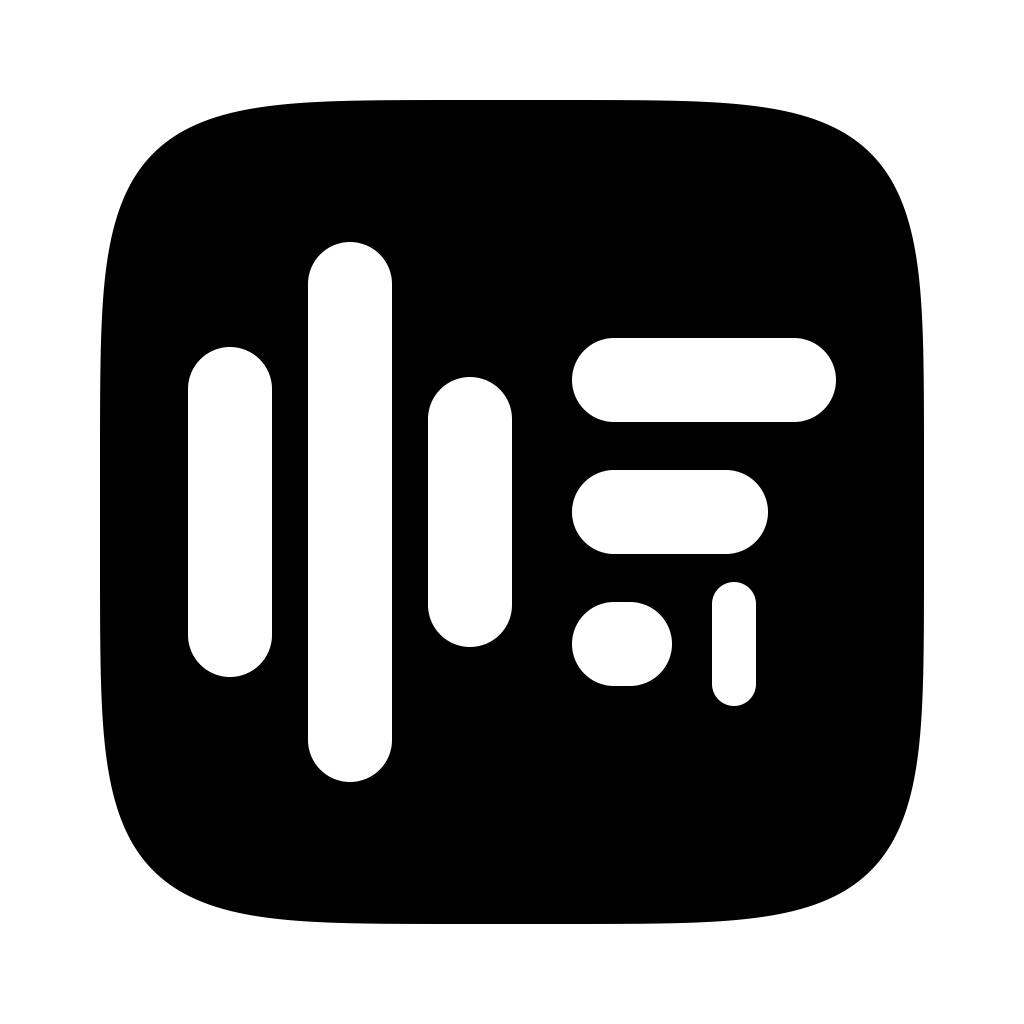
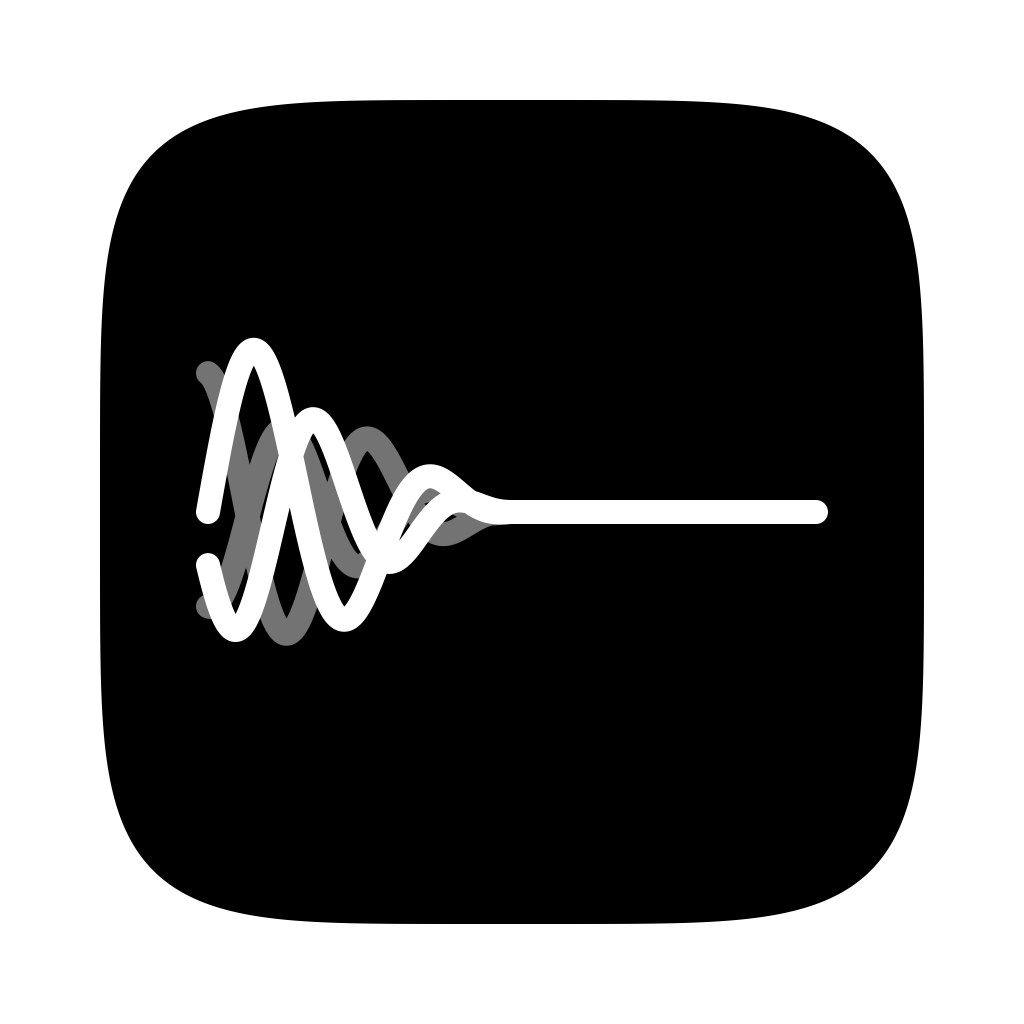
Slovo 1.2.1: иконка — звуковые волны сходятся в линию
В левой половине иконки тонкие звуковые волны переплетаются и к середине
сходятся в одну точку, дальше идёт ровная линия: звук становится словом.
Значок в строке меню во время расшифровки повторяет этот рисунок: волны
бегут к линии, а линия дорастает по прогрессу.

Changed region(s): [[0.1562, 0.2188, 0.8125, 0.7812]]

diff --git a/Sources/Slovo/MenuBarIcon.swift b/Sources/Slovo/MenuBarIcon.swift
@@ -3,24 +3,26 @@ import Combine
 import TransCore
 
 /// The icon in the menu bar while a transcription runs: the app icon in lines (style A: its squircle with the mark
-/// inside; B: the mark alone), a wave of upright strokes that moves gently and lines of text that get written as
-/// recognition goes on. At the end it shows the lines whole (or a cross) for a moment and goes away; a click brings
-/// the window forward. The animation is light (4 frames a second) and stops while the displays sleep or Reduce Motion
-/// is on: then only the progress changes the icon. Drawn in code as a template image like the menu bar icons of the
-/// author's other apps: 16 × 16 pt, the glyph in the middle 14 × 14 pt, 1.5 pt lines with round ends.
+/// inside; B: the mark alone), sound waves on the left that run into the middle and calm down there, and the word's
+/// line on the right that grows as recognition goes on. At the end it shows the line whole (or a cross) for a moment
+/// and goes away; a click brings the window forward. The animation is light (4 frames a second) and stops while the
+/// displays sleep or Reduce Motion is on: then only the progress changes the icon. Drawn in code as a template image
+/// like the menu bar icons of the author's other apps: 16 × 16 pt, the glyph in the middle 14 × 14 pt, 1.5 pt lines
+/// with round ends.
 @MainActor
 final class MenuBarIcon: NSObject {
-    /// What the icon shows: the heights of the wave's strokes and the text, being written or finished.
+    /// What the icon shows: where the waves are in their run and the word's line, being written or finished.
     struct Glyph: Equatable {
-        enum Text: Equatable {
+        enum Line: Equatable {
             /// Written so far, 0...1.
             case progress(Double)
             case done
             case failed
         }
 
-        var wave: [CGFloat]
-        var text: Text
+        /// The phase of the waves, in radians.
+        var phase: CGFloat
+        var line: Line
     }
 
     static let defaultsKey = "menuBarIcon"
@@ -83,12 +85,12 @@ final class MenuBarIcon: NSObject {
         refresh()
     }
 
-    /// The finished lines or the cross for 1.5 s, then away.
-    private func finish(_ text: Glyph.Text) {
+    /// The whole line or the cross for 1.5 s, then away.
+    private func finish(_ line: Glyph.Line) {
         timer?.invalidate()
         timer = nil
-        draw(Glyph(wave: Self.restingWave, text: text))
-        item?.button?.toolTip = text == .done ? L("Расшифровка готова") : L("Не получилось")
+        draw(Glyph(phase: Self.restingPhase, line: line))
+        item?.button?.toolTip = line == .done ? L("Расшифровка готова") : L("Не получилось")
         let work = DispatchWorkItem { [weak self] in MainActor.assumeIsolated { self?.hide() } }
         ending = work
         DispatchQueue.main.asyncAfter(deadline: .now() + 1.5, execute: work)
@@ -143,9 +145,10 @@ final class MenuBarIcon: NSObject {
     /// The current frame and the tooltip.
     private func refresh() {
         guard let item, ending == nil, transcriber.phase == .working else { return }
-        let written = transcriber.step == .recognizing ? transcriber.stepProgress ?? 0 : 0
-        let wave = moves ? Self.wave(at: Date().timeIntervalSince(clock)) : Self.restingWave
-        draw(Glyph(wave: wave, text: .progress(written)))
+        // Rounded to the 64th, a fraction of a pixel of the line: finer steps would only cost redraws.
+        let written = transcriber.step == .recognizing ? ((transcriber.stepProgress ?? 0) * 64).rounded() / 64 : 0
+        let phase = moves ? Self.phase(at: Date().timeIntervalSince(clock)) : Self.restingPhase
+        draw(Glyph(phase: phase, line: .progress(written)))
         let tooltip = tooltipText()
         if item.button?.toolTip != tooltip {
             item.button?.toolTip = tooltip
@@ -188,42 +191,42 @@ final class MenuBarIcon: NSObject {
 
     nonisolated static let style = Style.wholeIcon
 
-    /// Where the strokes go, in points of the 16 pt canvas (y down). Centres sit on quarter points, so that 1.5 pt
-    /// lines cover whole pixels at 2x.
+    /// Where the mark goes, in points of the 16 pt canvas (y down): the waves from `waveLeft` to `middle`, the line on
+    /// to `lineEnd`, both along `axis`. The axis sits on a quarter point, so that the 1.5 pt line covers whole pixels
+    /// at 2x.
     private struct Layout {
         var outline: Bool
-        var waveX: [CGFloat]
-        /// The height of a stroke at rest of 14 in the mark alone.
-        var waveScale: CGFloat
-        var waveMiddle: CGFloat
-        var lineX: CGFloat
-        var lineY: [CGFloat]
-        var lineLength: [CGFloat]
-        var caret: Bool
+        var waveLeft: CGFloat
+        var middle: CGFloat
+        var lineEnd: CGFloat
+        var axis: CGFloat
+        /// How far the solid wave swings at the left edge; the faint one swings `faint` times as far.
+        var amplitude: CGFloat
+        var faint: CGFloat
+        /// How many waves fit between the left edge and the middle.
+        var cycles: CGFloat
+        /// The side of the cross that takes the line's place when the transcription fails.
+        var cross: CGFloat
 
-        /// Inside the 1.5 pt squircle only two strokes and three short lines fit with room between them.
-        static let wholeIcon = Layout(outline: true, waveX: [4.75, 7.25], waveScale: 9 / 14, waveMiddle: 8.25, lineX: 9.25,
-                                      lineY: [5.25, 8.25, 11.25], lineLength: [3.25, 2.5, 1.75], caret: false)
-        /// The app icon's mark on the whole 14 pt square: three strokes, three lines and the caret.
-        static let markOnly = Layout(outline: false, waveX: [1.75, 4.25, 6.75], waveScale: 1, waveMiddle: 8, lineX: 9,
-                                     lineY: [4.25, 7.75, 11.25], lineLength: [6, 4.5, 2], caret: true)
+        /// Inside the 1.5 pt squircle a single wave fits with room between its strokes, and a faint one behind it.
+        static let wholeIcon = Layout(outline: true, waveLeft: 3.75, middle: 8.25, lineEnd: 12.25, axis: 8.25,
+                                      amplitude: 3.25, faint: 0.8, cycles: 1, cross: 2.75)
+        /// The app icon's mark on the whole 14 pt square: the waves on its left half, the line on the right one.
+        static let markOnly = Layout(outline: false, waveLeft: 1.75, middle: 8, lineEnd: 14.25, axis: 8.25,
+                                     amplitude: 5.25, faint: 0.75, cycles: 1.6, cross: 4)
     }
 
-    nonisolated static let restingWave: [CGFloat] = [8.5, 14, 7]
+    /// At rest the waves lie as the app icon's do: the solid one leaves the axis upwards.
+    nonisolated static let restingPhase = CGFloat.pi
 
-    /// The strokes rise and fall out of step, around their resting heights, once in 2.4 s.
-    nonisolated static func wave(at time: TimeInterval) -> [CGFloat] {
-        let phase = time / 2.4 * 2 * .pi
-        return restingWave.enumerated().map { index, height in
-            let swing: CGFloat = index == 1 ? 2.5 : 2
-            // Quantized to a quarter point, so frames that look the same are not drawn again.
-            return ((height - swing + swing * CGFloat(sin(phase + Double(index) * 2.1))) * 4).rounded() / 4
-        }
+    /// The waves run to the right, into the line, a wavelength in 2.4 s.
+    nonisolated static func phase(at time: TimeInterval) -> CGFloat {
+        restingPhase - CGFloat((time / 2.4).truncatingRemainder(dividingBy: 1)) * 2 * .pi
     }
 
     /// The image on the button: drawn anew whenever the button draws, from `glyph`.
     private final class LiveImage {
-        var glyph = Glyph(wave: MenuBarIcon.restingWave, text: .progress(0))
+        var glyph = Glyph(phase: MenuBarIcon.restingPhase, line: .progress(0))
         lazy var image: NSImage = {
             let image = NSImage(size: NSSize(width: 16, height: 16), flipped: true) { [unowned self] _ in
                 guard let ctx = NSGraphicsContext.current?.cgContext else { return false }
@@ -250,17 +253,15 @@ final class MenuBarIcon: NSObject {
     }
 
     /// Draws a frame on the 16 × 16 pt canvas (y down), the glyph in the middle 14 × 14 pt: 1.5 pt lines with round
-    /// ends, what is not written yet as a faint track.
+    /// ends, the far wave and what is not written yet faint.
     nonisolated static func draw(_ glyph: Glyph, style: Style, in ctx: CGContext) {
         let layout = style == .wholeIcon ? Layout.wholeIcon : Layout.markOnly
-        let width: CGFloat = 1.5
-        ctx.setLineWidth(width)
+        ctx.setLineWidth(1.5)
         ctx.setLineCap(.round)
         ctx.setLineJoin(.round)
-        func stroke(_ from: CGPoint, _ to: CGPoint, alpha: CGFloat = 1) {
+        func stroke(_ points: [CGPoint], alpha: CGFloat = 1) {
             ctx.setStrokeColor(NSColor.black.withAlphaComponent(alpha).cgColor)
-            ctx.move(to: from)
-            ctx.addLine(to: to)
+            ctx.addLines(between: points)
             ctx.strokePath()
         }
         if layout.outline {
@@ -269,40 +270,35 @@ final class MenuBarIcon: NSObject {
             ctx.addPath(squircle(CGRect(x: 1.75, y: 1.75, width: 12.5, height: 12.5)))
             ctx.strokePath()
         }
-        for (index, x) in layout.waveX.enumerated() {
-            let height = min(14, glyph.wave[index]) * layout.waveScale
-            let half = max(0, height - width) / 2
-            stroke(CGPoint(x: x, y: layout.waveMiddle - half), CGPoint(x: x, y: layout.waveMiddle + half))
-        }
-        let x = layout.lineX, lines = zip(layout.lineY, layout.lineLength).map { (y: $0, length: $1) }
-        if glyph.text == .failed {
-            // A cross in the place of the text.
-            let left = x + 0.5, right = x + layout.lineLength[0] - 0.5, top = lines[0].y, bottom = lines[2].y
-            stroke(CGPoint(x: left, y: top), CGPoint(x: right, y: bottom))
-            stroke(CGPoint(x: right, y: top), CGPoint(x: left, y: bottom))
+        // The waves: the far one behind, swinging less and out of step like the second wave of the app icon.
+        stroke(wave(layout, amplitude: layout.amplitude * layout.faint, phase: glyph.phase + 3.6), alpha: 0.45)
+        stroke(wave(layout, amplitude: layout.amplitude, phase: glyph.phase))
+        let y = layout.axis
+        if glyph.line == .failed {
+            // A cross in the place of the line, at its far end, clear of the waves.
+            let right = layout.lineEnd, left = right - layout.cross, top = y - layout.cross / 2, bottom = y + layout.cross / 2
+            stroke([CGPoint(x: left, y: top), CGPoint(x: right, y: bottom)])
+            stroke([CGPoint(x: right, y: top), CGPoint(x: left, y: bottom)])
             return
         }
-        var written: CGFloat
-        switch glyph.text {
+        let written: CGFloat
+        switch glyph.line {
         case .progress(let value): written = CGFloat(min(1, max(0, value)))
         default: written = 1
         }
-        var left = written * layout.lineLength.reduce(0, +)
-        var caret: CGPoint?
-        for (index, line) in lines.enumerated() {
-            stroke(CGPoint(x: x + width / 2, y: line.y), CGPoint(x: x + line.length - width / 2, y: line.y), alpha: 0.3)
-            let part = min(left, line.length)
-            left -= part
-            if part > 0 {
-                stroke(CGPoint(x: x + width / 2, y: line.y), CGPoint(x: x + max(width, part) - width / 2, y: line.y))
-            }
-            // The caret stands where the writing is, after the last line at the end.
-            if caret == nil, part < line.length || index == lines.count - 1 {
-                caret = CGPoint(x: x + part + 1 + width / 2, y: line.y)
-            }
+        stroke([CGPoint(x: layout.middle, y: y), CGPoint(x: layout.lineEnd, y: y)], alpha: 0.3)
+        if written > 0 {
+            stroke([CGPoint(x: layout.middle, y: y), CGPoint(x: layout.middle + (layout.lineEnd - layout.middle) * written, y: y)])
         }
-        if layout.caret, let caret {
-            stroke(CGPoint(x: caret.x, y: caret.y - 1), CGPoint(x: caret.x, y: caret.y + 1))
+    }
+
+    /// A wave like those of the app icon: its swing holds on the left and fades out towards the middle, where the wave
+    /// lies down on the axis and goes on as the line.
+    private nonisolated static func wave(_ layout: Layout, amplitude: CGFloat, phase: CGFloat) -> [CGPoint] {
+        (0...40).map { i in
+            let t = CGFloat(i) / 40
+            return CGPoint(x: layout.waveLeft + (layout.middle - layout.waveLeft) * t,
+                           y: layout.axis + amplitude * pow(cos(.pi / 2 * t), 1.6) * sin(2 * .pi * layout.cycles * t + phase))
         }
     }
 
@@ -327,18 +323,18 @@ final class MenuBarIcon: NSObject {
     var screenFrame: NSRect? { item?.button?.window?.frame }
     var tooltip: String? { item?.button?.toolTip }
 
-    /// The frames as PNG, black on clear, for both styles: a second of the wave at 10 frames a second with the text half
-    /// written, the text at 0, 50 and 100 %, done and failed. Each at 1x, 2x and enlarged 8 times (2x pixels shown 4 times).
+    /// The frames as PNG, black on clear, for both styles: the waves' run at 4 frames a second (as in the menu bar) with
+    /// the line half written, the line at 0, 50 and 100 %, done and failed. Each at 1x and 2x.
     static func saveFrames(to folder: URL) {
         try? FileManager.default.createDirectory(at: folder, withIntermediateDirectories: true)
-        var frames: [(String, Glyph)] = (0..<12).map { i in
-            (String(format: "wave-%02d", i), Glyph(wave: wave(at: Double(i) / 10), text: .progress(0.5)))
+        var frames: [(String, Glyph)] = (0..<10).map { i in
+            (String(format: "wave-%02d", i), Glyph(phase: phase(at: Double(i) / 4), line: .progress(0.5)))
         }
-        frames += [("text-000", Glyph(wave: restingWave, text: .progress(0))),
-                   ("text-050", Glyph(wave: restingWave, text: .progress(0.5))),
-                   ("text-100", Glyph(wave: restingWave, text: .progress(1))),
-                   ("done", Glyph(wave: restingWave, text: .done)),
-                   ("failed", Glyph(wave: restingWave, text: .failed))]
+        frames += [("line-000", Glyph(phase: restingPhase, line: .progress(0))),
+                   ("line-050", Glyph(phase: restingPhase, line: .progress(0.5))),
+                   ("line-100", Glyph(phase: restingPhase, line: .progress(1))),
+                   ("done", Glyph(phase: restingPhase, line: .done)),
+                   ("failed", Glyph(phase: restingPhase, line: .failed))]
         for (prefix, style) in [("A", Style.wholeIcon), ("B", Style.markOnly)] {
             for (name, glyph) in frames {
                 for (suffix, pixels) in [("@1x", 16), ("@2x", 32)] {

diff --git a/scripts/make_icon.swift b/scripts/make_icon.swift
@@ -1,9 +1,9 @@
 // Renders the app icon into Resources/AppIcon.icon (the Icon Composer format) and Resources/AppIcon-1024.png
 // Usage: swift scripts/make_icon.swift
 //
-// Speech becoming text: a sound wave of upright pills settles into three lines of text, and a caret after the last
-// line is still typing. Flat and black and white like the icons of the author's other apps: a pure black body and
-// pure white marks of Subline's thickness, with no gradients, glass, glows or shadows.
+// Sound becoming a word: on the left half thin sound waves weave through each other and calm down, meeting in the middle
+// in one point, from which a single straight line goes on to the right. Flat and black and white like the icons of the
+// author's other apps: a pure black body, white lines, the two far waves grey (white at 45 %), no gradients or shadows.
 import AppKit
 
 let bodyColor: (red: CGFloat, green: CGFloat, blue: CGFloat) = (0, 0, 0)
@@ -11,24 +11,44 @@ let bodyColor: (red: CGFloat, green: CGFloat, blue: CGFloat) = (0, 0, 0)
 /// The mark, drawn with the current (white) colours in the flat drawing's coordinates: a 1024 square whose body is the
 /// squircle at 100...924, y growing upwards.
 func drawMark(_ ctx: CGContext) {
-    /// A capsule, upright or lying.
-    func pill(_ rect: CGRect) -> CGPath {
-        let radius = min(rect.width, rect.height) / 2
-        return CGPath(roundedRect: rect, cornerWidth: radius, cornerHeight: radius, transform: nil)
+    // With its round ends the mark spans 196...828, as wide as Subline's; the waves fill the left half up to the
+    // middle, 512.
+    let left: CGFloat = 208, middle: CGFloat = 512, right: CGFloat = 816, axis: CGFloat = 512
+    /// A sine wave whose swing holds on the left and fades smoothly to nothing in the middle, where the wave lies
+    /// down on the axis and becomes the line.
+    func wave(amplitude: CGFloat, cycles: CGFloat, phase: CGFloat) -> CGPath {
+        let path = CGMutablePath()
+        for i in 0...400 {
+            let t = CGFloat(i) / 400
+            let point = CGPoint(x: left + (middle - left) * t,
+                                y: axis + amplitude * pow(cos(.pi / 2 * t), 1.6) * sin(2 * .pi * cycles * t + phase))
+            if i == 0 { path.move(to: point) } else { path.addLine(to: point) }
+        }
+        return path
     }
-    // Pills 84 thick like Subline's marks.
-    let thickness: CGFloat = 84
-    // The wave: three upright pills, the loudest in the middle, quieting toward the text.
-    let wave = zip([188, 308, 428] as [CGFloat], [330, 540, 270] as [CGFloat]).map { x, height in
-        CGRect(x: x, y: 512 - height / 2, width: thickness, height: height)
-    }
-    // The text: three lines, the last one short and being typed, with the caret after it.
-    let lines = [CGRect(x: 572, y: 602, width: 264, height: thickness),
-                 CGRect(x: 572, y: 470, width: 196, height: thickness),
-                 CGRect(x: 572, y: 338, width: 100, height: thickness)]
-    let caret = CGRect(x: lines[2].maxX + 40, y: lines[2].midY - 62, width: 44, height: 124)
-    for rect in wave + lines + [caret] { ctx.addPath(pill(rect)) }
-    ctx.fillPath()
+    ctx.saveGState()
+    // Thin lines, about a third of Subline's pills, still a pixel at 32 px.
+    ctx.setLineWidth(24)
+    ctx.setLineCap(.round)
+    ctx.setLineJoin(.round)
+    // The far waves, grey: white at 45 % over the black body.
+    let far = CGMutablePath()
+    far.addPath(wave(amplitude: 140, cycles: 1.8, phase: 1.7))
+    far.addPath(wave(amplitude: 95, cycles: 2.0, phase: 4.6))
+    ctx.setAlpha(0.45)
+    ctx.addPath(far)
+    ctx.strokePath()
+    // The near waves, of slightly different lengths and almost opposite phases so that they cross each other, and
+    // the word's line, white.
+    let near = CGMutablePath()
+    near.addPath(wave(amplitude: 170, cycles: 1.6, phase: 0))
+    near.addPath(wave(amplitude: 120, cycles: 1.9, phase: 3.6))
+    near.move(to: CGPoint(x: middle, y: axis))
+    near.addLine(to: CGPoint(x: right, y: axis))
+    ctx.setAlpha(1)
+    ctx.addPath(near)
+    ctx.strokePath()
+    ctx.restoreGState()
 }
 
 // MARK: - The icon files (the same in every app of the family)

diff --git a/README.md b/README.md
@@ -40,9 +40,9 @@ Slovo расшифровывает аудио и видео в текст на m
   а берёт из системы и проигрывает как системные: с громкостью предупреждений и только если в настройках «Звук»
   включены звуковые эффекты интерфейса. В настройках Slovo их выключает переключатель «Звуковые эффекты».
 - Пока идёт расшифровка, в строке меню виден значок: иконка приложения линиями, контур сквиркла и знак внутри.
-  Волна мягко шевелится, а строки текста дописываются по ходу распознавания. В подсказке при наведении видны проценты
-  и оставшееся время, щелчок выводит окно Slovo вперёд. В конце значок на полторы секунды показывает целые строки или
-  крестик, если не получилось, и исчезает. Анимация лёгкая, 4 кадра в секунду, а пока дисплей спит или включено
+  Волны слева бегут к середине и там успокаиваются, а линия справа растёт по ходу распознавания. В подсказке
+  при наведении видны проценты и оставшееся время, щелчок выводит окно Slovo вперёд. В конце значок на полторы
+  секунды показывает целую линию или крестик на её месте, если не получилось, и исчезает. Анимация лёгкая, 4 кадра в секунду, а пока дисплей спит или включено
   «Уменьшить движение», значок меняется только вместе с прогрессом. Без контура, одним знаком на весь значок, он
   рисуется, если в `MenuBarIcon.style` поставить `.markOnly`. Выключается переключателем «Значок в строке меню
   во время работы» в настройках.
@@ -57,9 +57,10 @@ Slovo расшифровывает аудио и видео в текст на m
   новое содержимое проступает из размытия, а трекпад слегка щёлкает, если на нём лежит палец. Подписи короткие
   и в одну строку, пояснения появляются в подсказке при наведении. Приложение учитывает настройку «Уменьшить
   движение».
-- Иконка плоская и чёрно-белая, в одной серии с другими приложениями автора: чёрная плитка и белые знаки той же
-  толщины, что у Subline, без градиентов, бликов и теней. Звуковая волна из вертикальных капсул переходит в строки
-  текста, а после последней строки стоит каретка. Иконка хранится пакетом Icon Composer (`Resources/AppIcon.icon`):
+- Иконка плоская и чёрно-белая, в одной серии с другими приложениями автора: чёрная плитка и белые линии, без
+  градиентов, бликов и теней, с теми же полями, что у Subline. В левой половине тонкие звуковые волны переплетаются
+  и к середине сходятся в одну точку, а дальше идёт одна прямая линия: звук становится текстом. Две дальние волны
+  серые. Иконка хранится пакетом Icon Composer (`Resources/AppIcon.icon`):
   его рисует `scripts/make_icon.swift`, а `actool` при сборке превращает в `Assets.car` и запасной `AppIcon.icns`
   для систем старше macOS 26. Иконку, которая есть только в `.icns`, macOS 26 показывает внутри серой подложки.
 - Интерфейс на русском и английском. Язык выбирает macOS по списку в разделе «Язык и регион»: берётся первый язык
